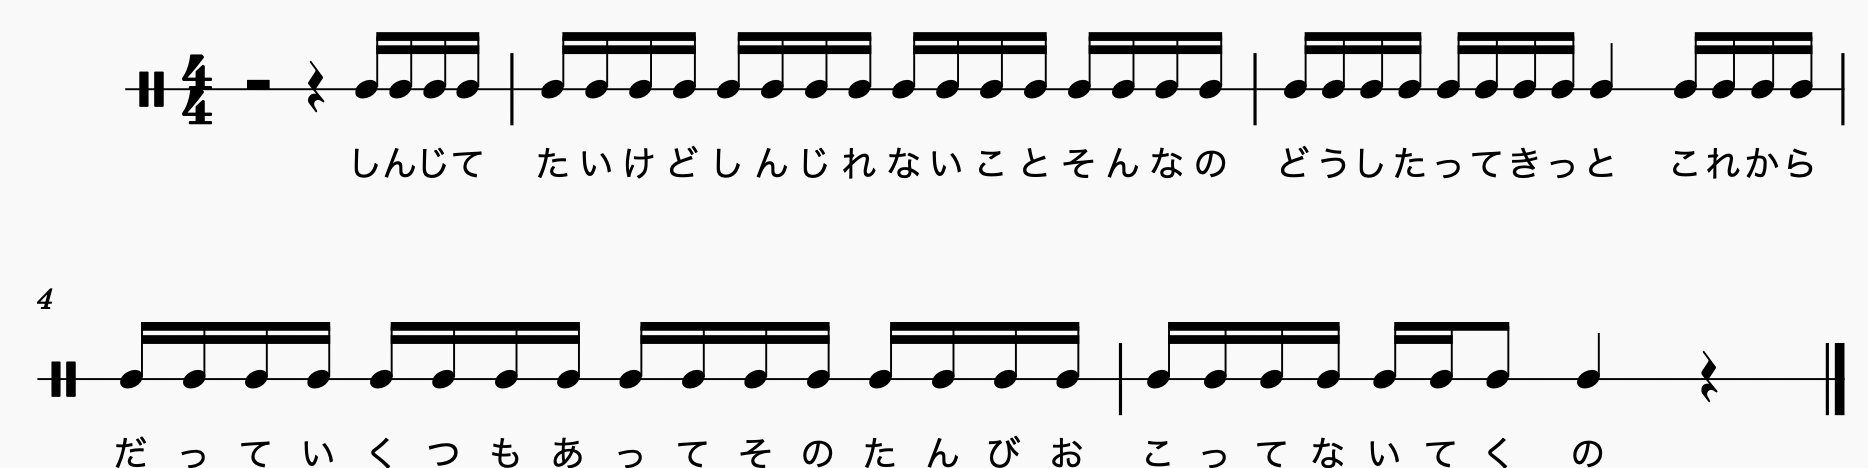
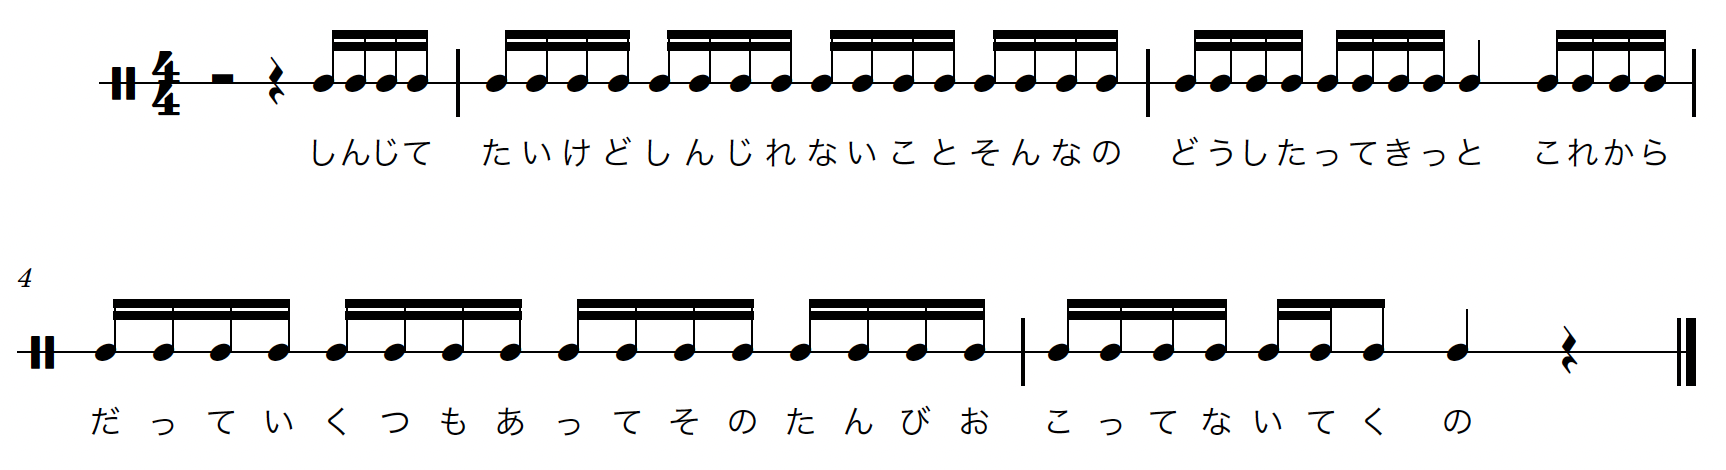
tayama の原稿の修正
- 楽譜の出力を統一した
- Figure 8, 9 にキャプションを付けた
- 6 ページ目がはみ出したので 7 ページ目に移した
- その他雑多内容の修正

diff --git a/pages/tayama/7.tsx b/pages/tayama/7.tsx
@@ -5,6 +5,9 @@ export default function Page() {
   return (
     <div>
       <p>
+        継続・継続・継続のリズムでこの句は成り立っています。『分け入つても』の繰り返しが語勢を強め、それが『青い山』で突き放すように突然に途切れます。楽曲『ワンダーステラ』と同様に継続のリズムで突然に終わるパターンであり、山の中をいくらさまよっても読み手の欲するものは得られないと言わんばかりの寂しさ、孤独感をもたらしています。
+      </p>
+      <p>
         尾崎放哉の句『咳をしても一人』も同様のリズムを持ち、同様の効果をもたらしていると言えるでしょう。自由律俳句は多様であり、必ずしもこのようなリズムに当てはめられるものばかりではありませんが、リズムを捉えることは自由律俳句を深く楽しむ上で一定の助けになるものと思います。
       </p>
       <h2>結び</h2>
@@ -12,14 +15,14 @@ export default function Page() {
         五・七・五はモーラ等時性という性質により表拍・裏拍・表拍で終わることになり、これが進行と終止のリズムをバランス良く織り交ぜているため心地よく感じるのだという筆者の主張を説明しました。またこの論によると、字余りや句またがりのような定形を外れた形式についても、標準的な五・七・五と同様に心地よく感じることを矛盾なく説明できることを主張しました。
       </p>
       <p>
-        近年575検出（日常会話やテキストコミュニケーションにおいて、発言のうち五・七・五になっている部分を検出して指摘する知的なゲーム）が流行しています [要出典]。575検出を苦手とする人も少なからずいるようですが、会話の中で心地よく感じるリズムに着目することは575検出の助けになるものと思いますし、また筆者の周囲の575検出が得意な人には音楽センスに長けている人が多いように感じます。
+        近年575検出（日常会話やテキストコミュニケーションにおいて、発言のうち五・七・五になっている部分を検出して指摘する知的なゲーム）が流行しています [要出典]。575検出を苦手とする人も少なからずいるようですが、会話の中で心地よく感じるリズムに着目することは575検出の助けになるものと思います。また、筆者の周囲の575検出が得意な人には音楽センスに長けている人が多いようにも感じます。
       </p>
       <p>
         この記事が読者の楽しい575生活・音楽生活の一助となることを願ってやみません。
       </p>
       <h2>参考文献</h2>
       <ul>
-        <li>[^1] いずれも松尾芭蕉 (1644-1694) の句。</li>
+        <li>[^1] おくの細道 (松尾芭蕉、井筒屋本寛政版) </li>
         <li>[^2] バニラ求人テーマソング（作詞・作曲者非公開、【公式】バニラチャンネル）[2017] https://www.youtube.com/watch?v=ow6Q0zRa4Xw</li>
         <li>[^3] Trancing Pulse （作詞：AJURIKA　作曲：上松範康　編曲：藤永龍太郎）[2015] https://www.youtube.com/watch?v=QwuEEA1jSCQ</li>
         <li>[^4] 夜に駆ける（作詞作曲：Ayase）[2019] https://www.youtube.com/watch?v=by4SYYWlhEs</li>

diff --git a/pages/tayama/6.tsx b/pages/tayama/6.tsx
@@ -13,20 +13,17 @@ export default function Page() {
       </p>
       <h2>句またがり</h2>
       <p>
-        モーラの総数は17であるものの、語句の切れ目が五・七・五の境界をまたがっているような句は句またがりと呼ばれます。句またがりの有名な句としては、松尾芭蕉の句『海暮れて鴨の声ほのかに白し』や、ホロライブプロダクション所属のアイドルVTuberである宝鐘マリンの句『ドリルでも乳首でもねぇからマジで』[^9] があります。
+        モーラの総数は17であるものの、語句の切れ目が五・七・五の境界をまたがっているような句は句またがりと呼ばれます。句またがりの有名な句としては、松尾芭蕉の句『海暮て鴨の声ほのかに白し』や、ホロライブプロダクション所属のアイドルVTuberである宝鐘マリンの句『ドリルでも乳首でもねえからマジで』[^9] があります。
       </p>
       <p>
-        これらは七の最初に八分休符があると思って読むと、自然に次の五に繋げられます。七・五にまたがる句はこのように読みやすいのに対し、頭の五・七にまたがる句は五の終止を崩してしまうことになるのであまり詠まれないのでしょう。
+        これらは七の最初に八分休符があると思って読むと、自然に次の五に繋げられます。七・五にまたがる句はこのように読みやすいのに対し、頭の五・七にまたがる句は五の終止を崩してしまうことになるので、句またがりというよりは自由律俳句にカテゴライズされやすいのでしょう。
       </p>
-      <Image href={'/tayama/8.png'} />
+      <Image href={'/tayama/8.png'} description={'Figure 8. 句またがりの句の例'} />
       <h2>自由律俳句</h2>
       <p>
         自由律俳句は五・七・五の韻律にとらわれない句であり、それは取りも直さず終止・継続・終止のリズムに囚われない句だとも言えます。自由律俳句の句、たとえば種田山頭火の句『分け入つても分け入つても青い山』は一見継続や終止のリズムが見えにくいですが、この句は実は三拍子なのです。
       </p>
-      <Image href={'/tayama/9.png'} />
-      <p>
-        継続・継続・継続のリズムでこの句は成り立っています。『分け入つても』の繰り返しが語勢を強め、それが『青い山』で突き放すように突然に途切れます。楽曲『ワンダーステラ』と同様に継続のリズムで突然に終わるパターンであり、山の中をいくらさまよっても読み手の欲するものは得られないと言わんばかりの寂しさ、孤独感をもたらしています。
-      </p>
+      <Image href={'/tayama/9.png'} description={'Figure 9. 自由律俳句の例'} />
     </div>
   )
 }

diff --git a/pages/tayama/1.tsx b/pages/tayama/1.tsx
@@ -13,7 +13,7 @@ export default function Page() {
       />
       <Image href={'/tayama/0.png'} widthPercentage={50} />
       <p>
-        夏草や、兵どもが夢の跡。五月雨を集めて速し最上川 [^1]。俳句は良いものですね。日本語話者たるもの、必ずしも俳句を積極的に詠んだり鑑賞したりする人ばかりではないにせよ、俳句が全くもって嫌いだという人はなかなかいないのではないでしょうか。俳句、あるいは川柳、短歌には五・七・五（・七・七）という形式があり、この韻律に従って読み上げるとなんとも言えない心地よさ、収まりの良さを感じられます。
+        夏草や、兵どもが夢の跡。五月雨をあつめて早し最上川 [^1]。俳句は良いものですね。日本語話者たるもの、必ずしも俳句を積極的に詠んだり鑑賞したりする人ばかりではないにせよ、俳句が全くもって嫌いだという人はなかなかいないのではないでしょうか。俳句、あるいは川柳、短歌には五・七・五（・七・七）という形式があり、この韻律に従って読み上げるとなんとも言えない心地よさ、収まりの良さを感じられます。
       </p>
       <p>
         五・七・五はなぜ心地よいのでしょうか。この記事は、その理由を日本語の音韻論的特性とリズムの音楽的特性から説明します。なお、これは筆者の独自研究であり、専門的知識に裏付けされたものではないことをあらかじめご了承ください。
